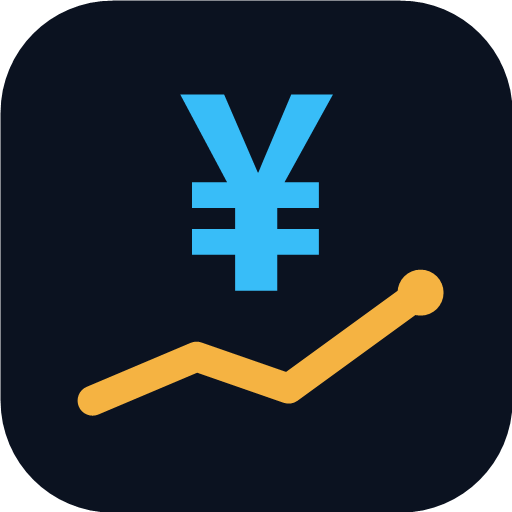
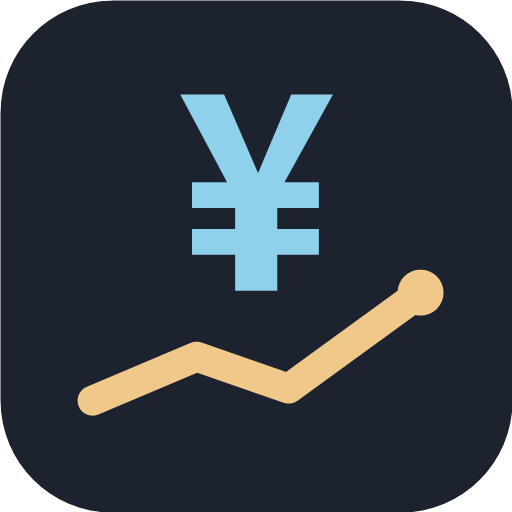
配色をパステルに、打刻アイコンを開始/停止/一時停止に、余白を統一した
- ライト・ダークとも彩度を落としたパステル寄りの配色に変更。
  文字と背景のコントラストは維持し、theme-color もテーマごとに出し分ける
- 出勤=▶ / 退勤=■ / 休憩=‖(休憩中は▶に切り替え)。カウンターの動きと対応させた
- タイルの間隔を --gap ひとつに統一(縦・横とも同じ値になる)
- アイコンもパステルの色味に合わせて作り直した

Changed region(s): [[0.3438, 0.1562, 0.6562, 0.5938], [0.1562, 0.5, 0.875, 0.8125]]

diff --git a/styles.css b/styles.css
@@ -1,30 +1,32 @@
 /* WageTicker — 計器ダッシュボード。外部フォント・ライブラリは読み込まない(SPEC 14)
  *
- * 配色は見本(ライト: 淡いブルーグレー地に白カード / ダーク: 濃紺地にカード)に合わせている。
+ * 配色はパステル寄り(ライト: 淡いブルーグレー地に白カード / ダーク: 落ち着いた紺地にカード)。
  * テーマは3状態: 既定は端末の設定に追従し、ボタンで light / dark を明示指定できる。
  * 色はすべて :root のトークンで定義し、コンポーネント側に生の色を書かない。
  */
 
 :root {
-  --ground: #e7ebf4;
-  --ground-2: #dde3f0;
+  /* パステル寄りの配色。彩度を落とし、地は青みのある淡いグレーでまとめる。
+     文字と背景のコントラストは落とさない(読みやすさは維持する)。 */
+  --ground: #eef1f7;
+  --ground-2: #e5e9f2;
   --card: #ffffff;
-  --card-2: #f4f6fb;
-  --line: #e2e7f0;
-  --ink: #0f172a;
-  --ink-2: #334155;
-  --muted: #6b7a91;
-  --faint: #97a3b6;
+  --card-2: #f5f7fc;
+  --line: #e4e8f2;
+  --ink: #2b3444;
+  --ink-2: #4a5568;
+  --muted: #7c88a0;
+  --faint: #a3adc2;
 
-  --cyan: #1f8fc4;
-  --amber: #d98324;
-  --green: #2e9e6b;
-  --red: #dc3f5c;
-  --blue: #2563eb;
-  --violet: #7c5cf0;
-  --pink: #c2569b;
+  --cyan: #4a9dc4;
+  --amber: #d8a24e;
+  --green: #5aab86;
+  --red: #d97b8b;
+  --blue: #6f8fd6;
+  --violet: #9a8fd8;
+  --pink: #cf8fb8;
 
-  --track: #dfe5f0;
+  --track: #e8ecf5;
   --shadow: 0 1px 2px rgba(15, 23, 42, 0.05), 0 6px 18px rgba(15, 23, 42, 0.04);
   --radius: 20px;
   --radius-sm: 14px;
@@ -46,50 +48,50 @@
 
 @media (prefers-color-scheme: dark) {
   :root:not([data-theme="light"]) {
-    --ground: #070b12;
-    --ground-2: #0b111b;
-    --card: #101722;
-    --card-2: #151d2a;
-    --line: #1e2a3b;
-    --ink: #f1f5f9;
-    --ink-2: #cbd5e1;
-    --muted: #94a3b8;
-    --faint: #64748b;
+    --ground: #12161f;
+    --ground-2: #171c27;
+    --card: #1c222e;
+    --card-2: #222937;
+    --line: #2b3342;
+    --ink: #e8ecf4;
+    --ink-2: #c3cbd9;
+    --muted: #96a1b5;
+    --faint: #6f7a8d;
 
-    --cyan: #38bdf8;
-    --amber: #f5b342;
-    --green: #4ade80;
-    --red: #f2586f;
-    --blue: #60a5fa;
-    --violet: #a78bfa;
-    --pink: #f472b6;
+    --cyan: #8fd0ea;
+    --amber: #f0c98a;
+    --green: #9ad9b8;
+    --red: #eaa1ad;
+    --blue: #a5bbf0;
+    --violet: #bfb3f0;
+    --pink: #edaed4;
 
-    --track: #1b2534;
+    --track: #29313f;
     --shadow: none;
     color-scheme: dark;
   }
 }
 
 :root[data-theme="dark"] {
-  --ground: #070b12;
-  --ground-2: #0b111b;
-  --card: #101722;
-  --card-2: #151d2a;
-  --line: #1e2a3b;
-  --ink: #f1f5f9;
-  --ink-2: #cbd5e1;
-  --muted: #94a3b8;
-  --faint: #64748b;
+  --ground: #12161f;
+  --ground-2: #171c27;
+  --card: #1c222e;
+  --card-2: #222937;
+  --line: #2b3342;
+  --ink: #e8ecf4;
+  --ink-2: #c3cbd9;
+  --muted: #96a1b5;
+  --faint: #6f7a8d;
 
-  --cyan: #38bdf8;
-  --amber: #f5b342;
-  --green: #4ade80;
-  --red: #f2586f;
-  --blue: #60a5fa;
-  --violet: #a78bfa;
-  --pink: #f472b6;
+  --cyan: #8fd0ea;
+  --amber: #f0c98a;
+  --green: #9ad9b8;
+  --red: #eaa1ad;
+  --blue: #a5bbf0;
+  --violet: #bfb3f0;
+  --pink: #edaed4;
 
-  --track: #1b2534;
+  --track: #29313f;
   --shadow: none;
   color-scheme: dark;
 }
@@ -109,13 +111,21 @@ html, body {
 
 body { min-height: 100svh; }
 
+/* タイル(カード)の間隔は、縦も横もすべて --gap で統一する */
 .app {
+  --gap: 12px;
   max-width: 540px;
   margin: 0 auto;
   padding: max(12px, env(safe-area-inset-top)) 14px calc(24px + env(safe-area-inset-bottom));
   display: flex;
   flex-direction: column;
-  gap: 12px;
+  gap: var(--gap);
+}
+
+.app > main {
+  display: flex;
+  flex-direction: column;
+  gap: var(--gap);
 }
 
 .card {
@@ -363,7 +373,7 @@ body { min-height: 100svh; }
 .stats {
   display: grid;
   grid-template-columns: 1fr 1fr;
-  gap: 12px;
+  gap: var(--gap);
 }
 
 .stat {
@@ -478,7 +488,7 @@ body { min-height: 100svh; }
 .bar > i.over { background: var(--amber); }
 
 .disclaimer {
-  margin: 2px 4px 0;
+  margin: 0 4px;
   font-size: var(--fs-xs);
   line-height: 1.75;
   color: var(--faint);
@@ -523,6 +533,9 @@ body { min-height: 100svh; }
 .act--in { color: var(--green); border: 1px solid color-mix(in srgb, var(--green) 35%, transparent); }
 .act--out { color: var(--blue); border: 1px solid color-mix(in srgb, var(--blue) 32%, transparent); }
 .act--break { color: var(--muted); border: 1px solid var(--line); }
+.act--break .ic-resume { display: none; }
+.act--break.is-on .ic-pause { display: none; }
+.act--break.is-on .ic-resume { display: block; }
 .act--break.is-on { color: var(--amber); border-color: color-mix(in srgb, var(--amber) 45%, transparent); }
 .act--ot { color: var(--amber); border: 1px solid color-mix(in srgb, var(--amber) 40%, transparent); }
 .act[disabled] { color: var(--faint); opacity: 0.35; cursor: default; }

diff --git a/index.html b/index.html
@@ -3,8 +3,9 @@
 <head>
 <meta charset="utf-8">
 <meta name="viewport" content="width=device-width, initial-scale=1, viewport-fit=cover">
-<meta name="theme-color" content="#0a0e0c">
-<meta name="color-scheme" content="dark">
+<meta name="theme-color" content="#eef1f7" media="(prefers-color-scheme: light)">
+<meta name="theme-color" content="#12161f" media="(prefers-color-scheme: dark)">
+<meta name="color-scheme" content="light dark">
 <meta name="description" content="出勤するだけで金額と労働時間がリアルタイムに積み上がる給料メーター">
 <title>WageTicker</title>
 <link rel="icon" type="image/svg+xml" href="icons/icon.svg">
@@ -48,16 +49,30 @@
 
   <!-- 操作(手動: 出勤/退勤の2つだけ / 自動モード: 残業開始・終了のみ) -->
   <nav class="actionbar card">
+    <!-- 開始(▶)・停止(■)・一時停止(‖)で、カウンターの動きと対応させる -->
     <button class="act act--in" id="clockInBtn" type="button">
-      <svg viewBox="0 0 24 24" width="20" height="20" aria-hidden="true"><path d="M10 4.5H6.2A1.7 1.7 0 0 0 4.5 6.2v11.6A1.7 1.7 0 0 0 6.2 19.5H10" fill="none" stroke="currentColor" stroke-width="1.8" stroke-linecap="round"/><path d="M14.5 8.2 18.8 12l-4.3 3.8M18 12H9.4" fill="none" stroke="currentColor" stroke-width="1.8" stroke-linecap="round" stroke-linejoin="round"/></svg>
+      <svg viewBox="0 0 24 24" width="24" height="24" aria-hidden="true">
+        <circle cx="12" cy="12" r="9.2" fill="none" stroke="currentColor" stroke-width="1.8"/>
+        <path d="M10.1 8.2 16 12l-5.9 3.8z" fill="currentColor"/>
+      </svg>
       <span>出勤</span>
     </button>
     <button class="act act--out" id="clockOutBtn" type="button">
-      <svg viewBox="0 0 24 24" width="20" height="20" aria-hidden="true"><path d="M14 4.5h3.8A1.7 1.7 0 0 1 19.5 6.2v11.6A1.7 1.7 0 0 1 17.8 19.5H14" fill="none" stroke="currentColor" stroke-width="1.8" stroke-linecap="round"/><path d="M9.5 8.2 5.2 12l4.3 3.8M6 12h8.6" fill="none" stroke="currentColor" stroke-width="1.8" stroke-linecap="round" stroke-linejoin="round"/></svg>
+      <svg viewBox="0 0 24 24" width="24" height="24" aria-hidden="true">
+        <circle cx="12" cy="12" r="9.2" fill="none" stroke="currentColor" stroke-width="1.8"/>
+        <rect x="8.7" y="8.7" width="6.6" height="6.6" rx="1.4" fill="currentColor"/>
+      </svg>
       <span>退勤</span>
     </button>
     <button class="act act--break" id="breakBtn" type="button">
-      <svg viewBox="0 0 24 24" width="20" height="20" aria-hidden="true"><path d="M4.6 9.4h11.2v5.2a4 4 0 0 1-4 4H8.6a4 4 0 0 1-4-4z" fill="none" stroke="currentColor" stroke-width="1.8" stroke-linejoin="round"/><path d="M15.8 10.6h1.8a2.4 2.4 0 0 1 0 4.8h-1.8" fill="none" stroke="currentColor" stroke-width="1.8"/><path d="M8 3.6v2.4M12 3.6v2.4" fill="none" stroke="currentColor" stroke-width="1.8" stroke-linecap="round"/></svg>
+      <svg class="ic-pause" viewBox="0 0 24 24" width="24" height="24" aria-hidden="true">
+        <circle cx="12" cy="12" r="9.2" fill="none" stroke="currentColor" stroke-width="1.8"/>
+        <path d="M10.2 8.6v6.8M13.8 8.6v6.8" stroke="currentColor" stroke-width="2.1" stroke-linecap="round"/>
+      </svg>
+      <svg class="ic-resume" viewBox="0 0 24 24" width="24" height="24" aria-hidden="true">
+        <circle cx="12" cy="12" r="9.2" fill="none" stroke="currentColor" stroke-width="1.8"/>
+        <path d="M10.1 8.2 16 12l-5.9 3.8z" fill="currentColor"/>
+      </svg>
       <span>休憩開始</span>
     </button>
     <button class="act act--ot" id="overtimeBtn" type="button" hidden>
